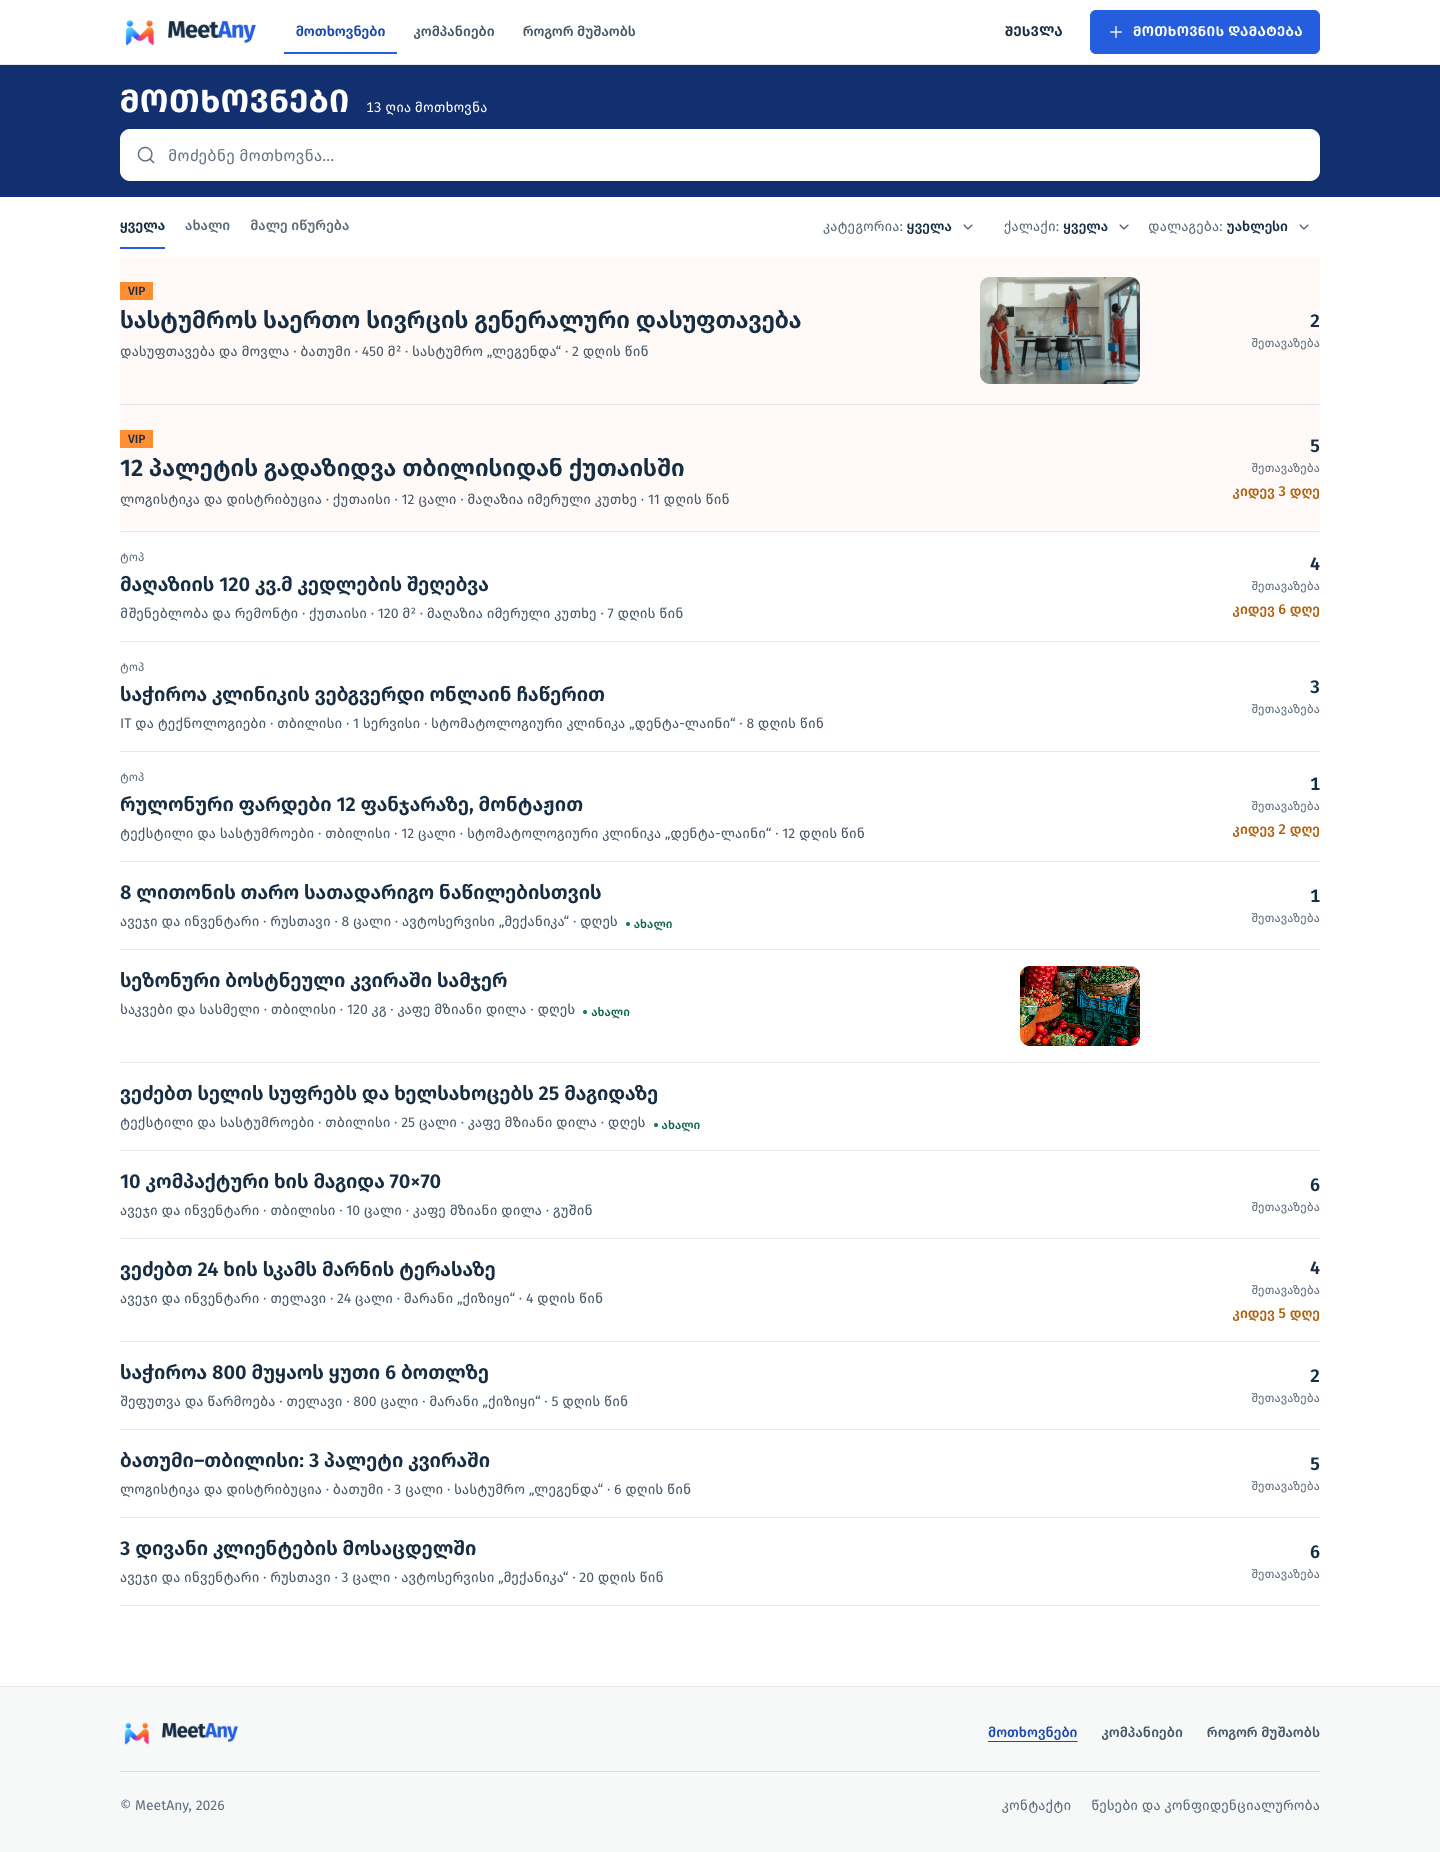
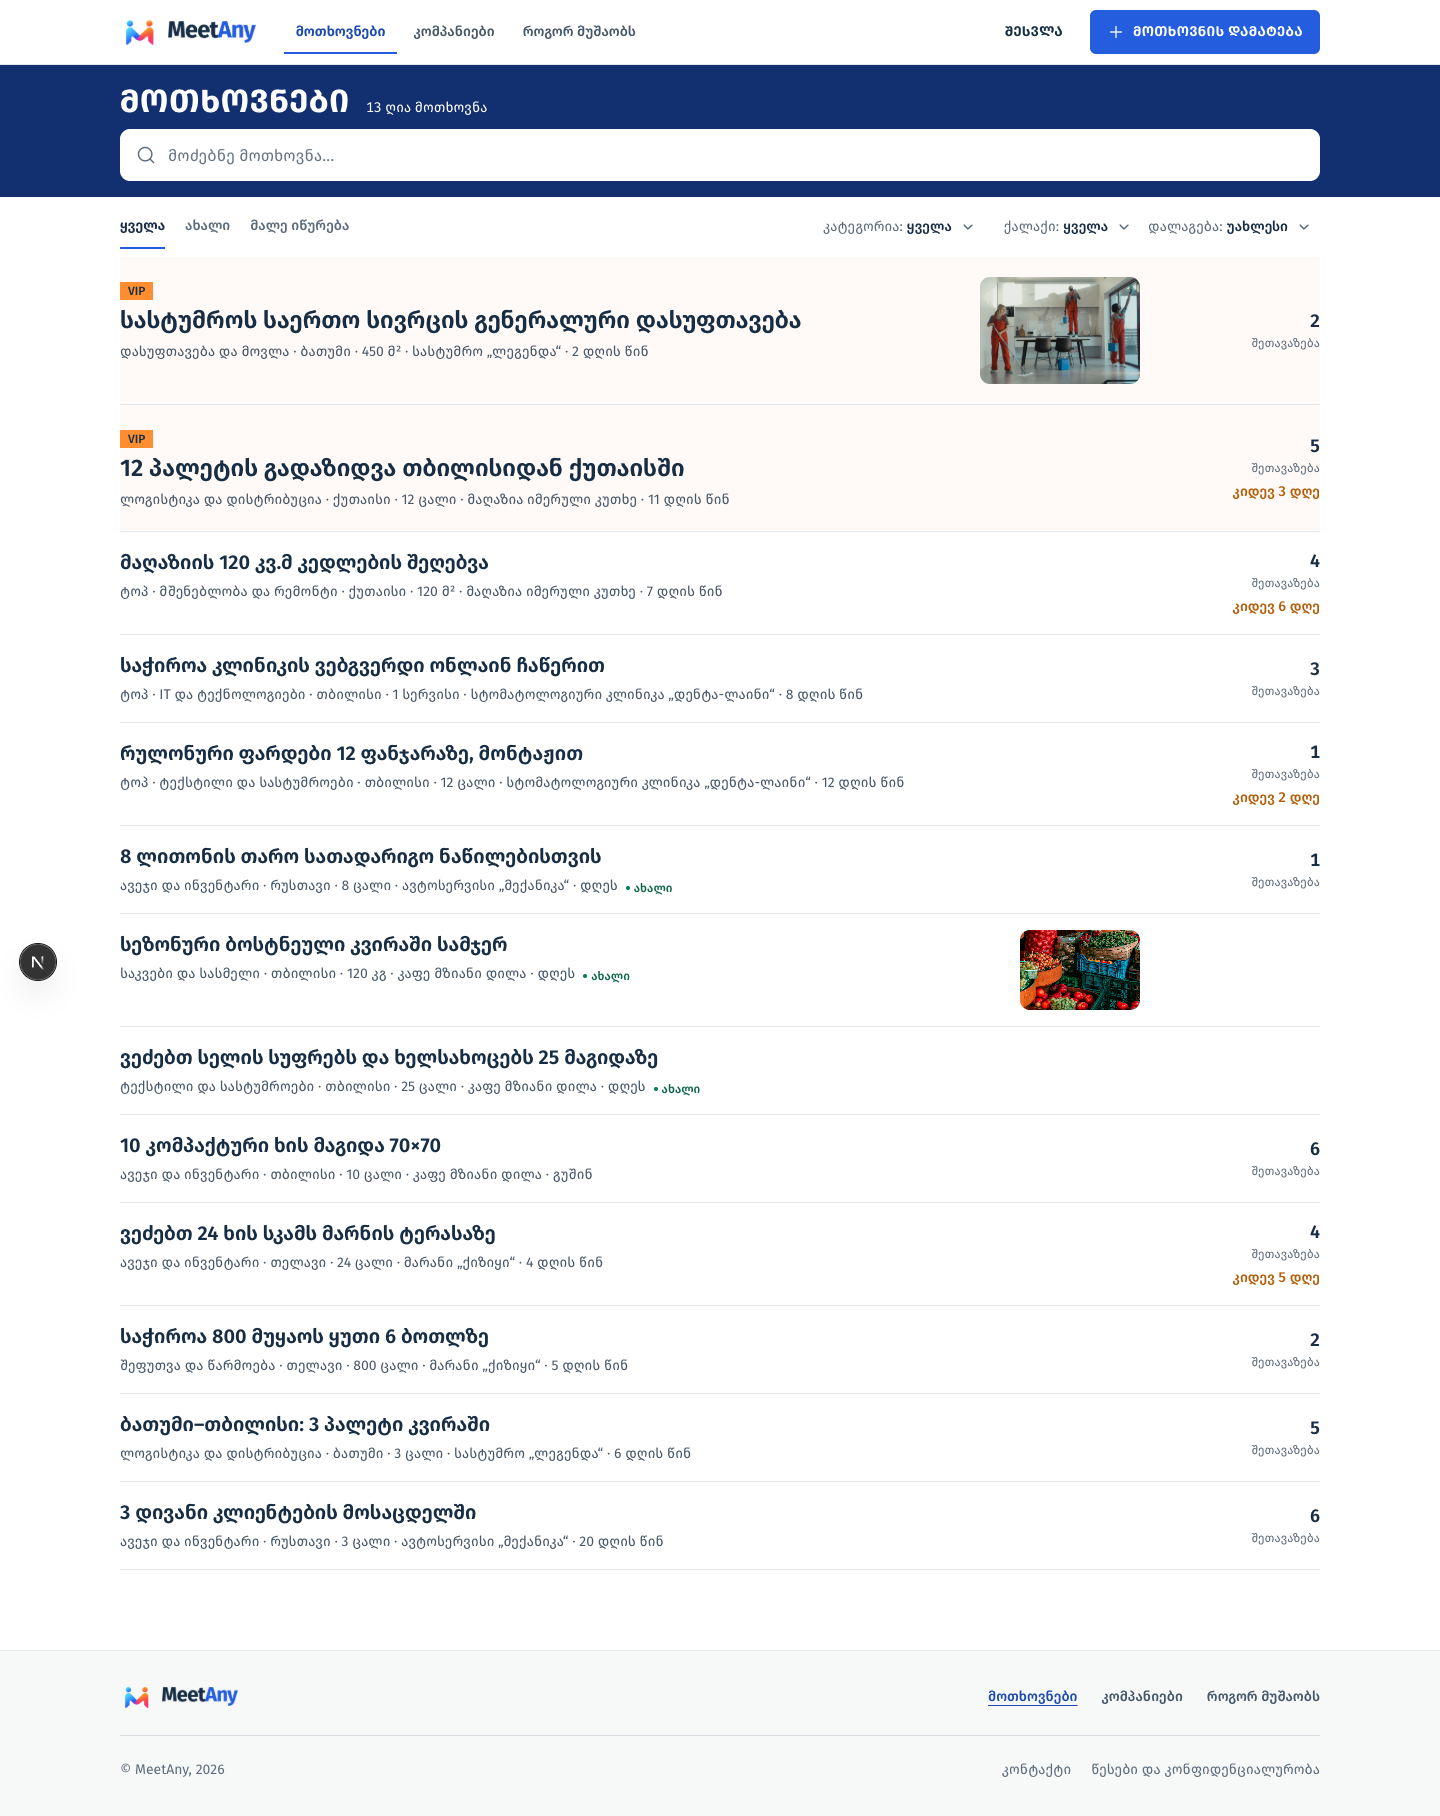
P11 T11.9d: top label into meta line, dev overlay issue
DevApp-Thread: top meta + overlay

diff --git a/web/app/components/market/RequestRow.tsx b/web/app/components/market/RequestRow.tsx
@@ -41,10 +41,11 @@ export function RequestRow({ r, priority = false, tier, entranceIndex }: { r: Re
   return (
     <article style={entranceIndex != null && entranceIndex < 12 ? { "--i": entranceIndex } as CSSProperties : undefined} data-enter={entranceIndex != null && entranceIndex < 12 ? "" : undefined} className={`ma-rcard ma-rcard--row request-card${tier ? ` request-card--${tier}` : ""}${r.photo && r.photo !== failedPhoto ? " request-card--photo" : ""}${r.isOwn ? " ma-rcard--mine" : closedLike ? " ma-rcard--closed" : ""}`}>
       <div className="request-card-content">
-        {tier === "vip" ? <span className="request-tier-badge request-tier-badge--vip">VIP</span> : tier === "top" ? <span className="request-tier-label">ტოპ</span> : null}
+        {tier === "vip" ? <span className="request-tier-badge request-tier-badge--vip">VIP</span> : null}
         <h2 className="ma-rcard__title"><Link className="card-main-link" href={href}>{r.title}</Link></h2>
         <p className="request-card-meta">
-          {[categories[r.category] || r.category, r.cityLabel, r.quantity != null && r.unit ? `${r.quantity} ${units[r.unit] || r.unit}` : null, r.ownerName].filter(Boolean).join(" · ")}
+          {/* "Top" is plain meta text, first in the line — no label above the title. */}
+          {[tier === "top" ? "ტოპ" : null, categories[r.category] || r.category, r.cityLabel, r.quantity != null && r.unit ? `${r.quantity} ${units[r.unit] || r.unit}` : null, r.ownerName].filter(Boolean).join(" · ")}
           {/* Below 768px the offers column folds into the meta line; zero offers says nothing. */}
           <span className="request-card-meta-status">{r.offerCount > 0 ? <> · <span>{r.offerCount} შეთავაზება</span></> : null}{deadline ? <> · <span className={urgent ? "request-card-meta-urgent" : undefined}>{deadline}</span></> : null}</span>
           {r.posted ? <> · <span className="request-card-posted">{r.posted}</span></> : null}

diff --git a/web/app/styles/marketplace.css b/web/app/styles/marketplace.css
@@ -419,7 +419,6 @@
 .requests-catalog .request-card-meta-status>span{white-space:nowrap}
 .requests-catalog :is(.request-card-urgent,.request-card-meta-urgent){color:var(--warning-600);font-weight:var(--fw-medium)}
 .requests-catalog .request-tier-badge{display:inline-flex;padding:0 var(--space-2);margin-bottom:var(--space-1);font-size:var(--fs-xs);line-height:var(--lh-xs);font-weight:var(--fw-medium);border:0;border-radius:0;background:var(--tier-vip-badge-bg);color:var(--text)}
-.requests-catalog .request-tier-label{display:block;margin-bottom:var(--space-1);font-size:var(--fs-xs);line-height:var(--lh-xs);font-weight:var(--fw-regular);color:var(--text-3)}
 .requests-catalog .request-card-posted{white-space:nowrap}
 /* "New" is its own marker after the meta — a dot, never a "·" as well. */
 .requests-catalog .request-card-new{display:inline-flex;align-items:center;gap:var(--space-1);margin-left:var(--space-2);font-size:var(--fs-xs);line-height:var(--lh-xs);color:var(--success-700);font-weight:var(--fw-medium);white-space:nowrap}

diff --git a/web/qa/shots/ideal-0924/README.md b/web/qa/shots/ideal-0924/README.md
@@ -2,6 +2,14 @@
 
 `v1/` = T11.3-ის კადრები **კრიტიკამდე** (`../../DESIGN-CRITIQUE-GE.md`). `v2/` = T11.4-ის კადრები (კრიტიკის #1–#12, #15), **მშობლის მიმოხილვამდე**. ამ საქაღალდის `requests-*`/`companies-*` = T11.6 (ქვემოთ, პუნქტები 1–8). დანარჩენი ქვეთავები T11.4/T11.5a-ის ისტორიაა.
 
+## T11.9d — „ტოპ“ მეტა-ხაზში და dev overlay-ის „1 Issue“ (`../../acceptance/catalogs-v2.md` #1)
+
+`requests-1440|390` — ახალი (სკრიპტი `qa/top-meta-shots.mjs`, გაზომვები `top-meta-qa.json`); წინა ვერსიები `v9/`-შია.
+
+- „ტოპ“ აღარ დგას სათაურის ზემოთ: ახლა მეტა-ხაზის პირველი სიტყვაა, უბრალო ტექსტით („ტოპ · კატეგორია · ქალაქი …“, 14/22, `--text-2`, ფონისა და ბეიჯის გარეშე). `.request-tier-label` წაიშალა. VIP pill სათაურის წინ უცვლელია. გაზომვა: ტოპ-რიგებში სათაურის ზემოთ ელემენტი 0-ია, VIP-ში მხოლოდ `request-tier-badge--vip`.
+- **„1 Issue“ ჩვენი კოდი არ არის.** `.next/dev/logs/next-development.log`: 26 hydration mismatch ჩანაწერი, სამი სახის: (1) `<img loading>` `eager`↔`lazy` /requests/-ზე. მიზეზი QA სკრიპტების `ready()`-ია (`accept-*.mjs`, `requests-fix-shots.mjs` …), რომელიც `domcontentloaded`-ის შემდეგ, hydration-ის დასრულებამდე, `img.loading = 'eager'`-ს წერს. (2) `cz-shortcut-listen` `<body>`-ზე — ColorZilla-ს გაფართოება. (3) `style={{caret-color…}}` ველებზე — ბრაუზერის გაფართოება. MarketStore-ის `MA999`-ები Neon websocket-ის დროებითი შეცდომაა („non-101 status code“) და ქსელს უკავშირდება.
+- შემოწმება DOM-ის შეცვლის გარეშე (Playwright, `load`, lazy-სურათები scroll-ით): /requests/, /companies/, /account/, 1440 და 390 — overlay ცარიელია, console error 0, pageerror 0. ახალ სკრიპტს `loading` აღარ ეხება. ძველი სკრიპტები არ შეცვლილა. რჩევა: `ready()`-ში `loading='eager'` hydration-ის შემდეგ ან scroll-ით.
+
 ## T11.9b — /companies/ და /companies/view/: მიღების 13 ნიშანი (`../../acceptance/companies.md`)
 
 `companies-1440|390|390-fold`, `companies-1440-phone-open`, `companies-empty-1440` (ძიება „ქსქსქს“), `companies-sheet-390`, `company-view-1440|390`, `company-view-1440|390-500ms` (პროფილი ნავიგაციიდან 500ms-ზე) — სკრიპტი `qa/companies-fix-shots.mjs`, გაზომვები `companies-fix-qa.json`; სტუმარი, ნომერი DOM-ში დაფარულია კადრამდე. წინა ვერსიები `v6/`-შია.
